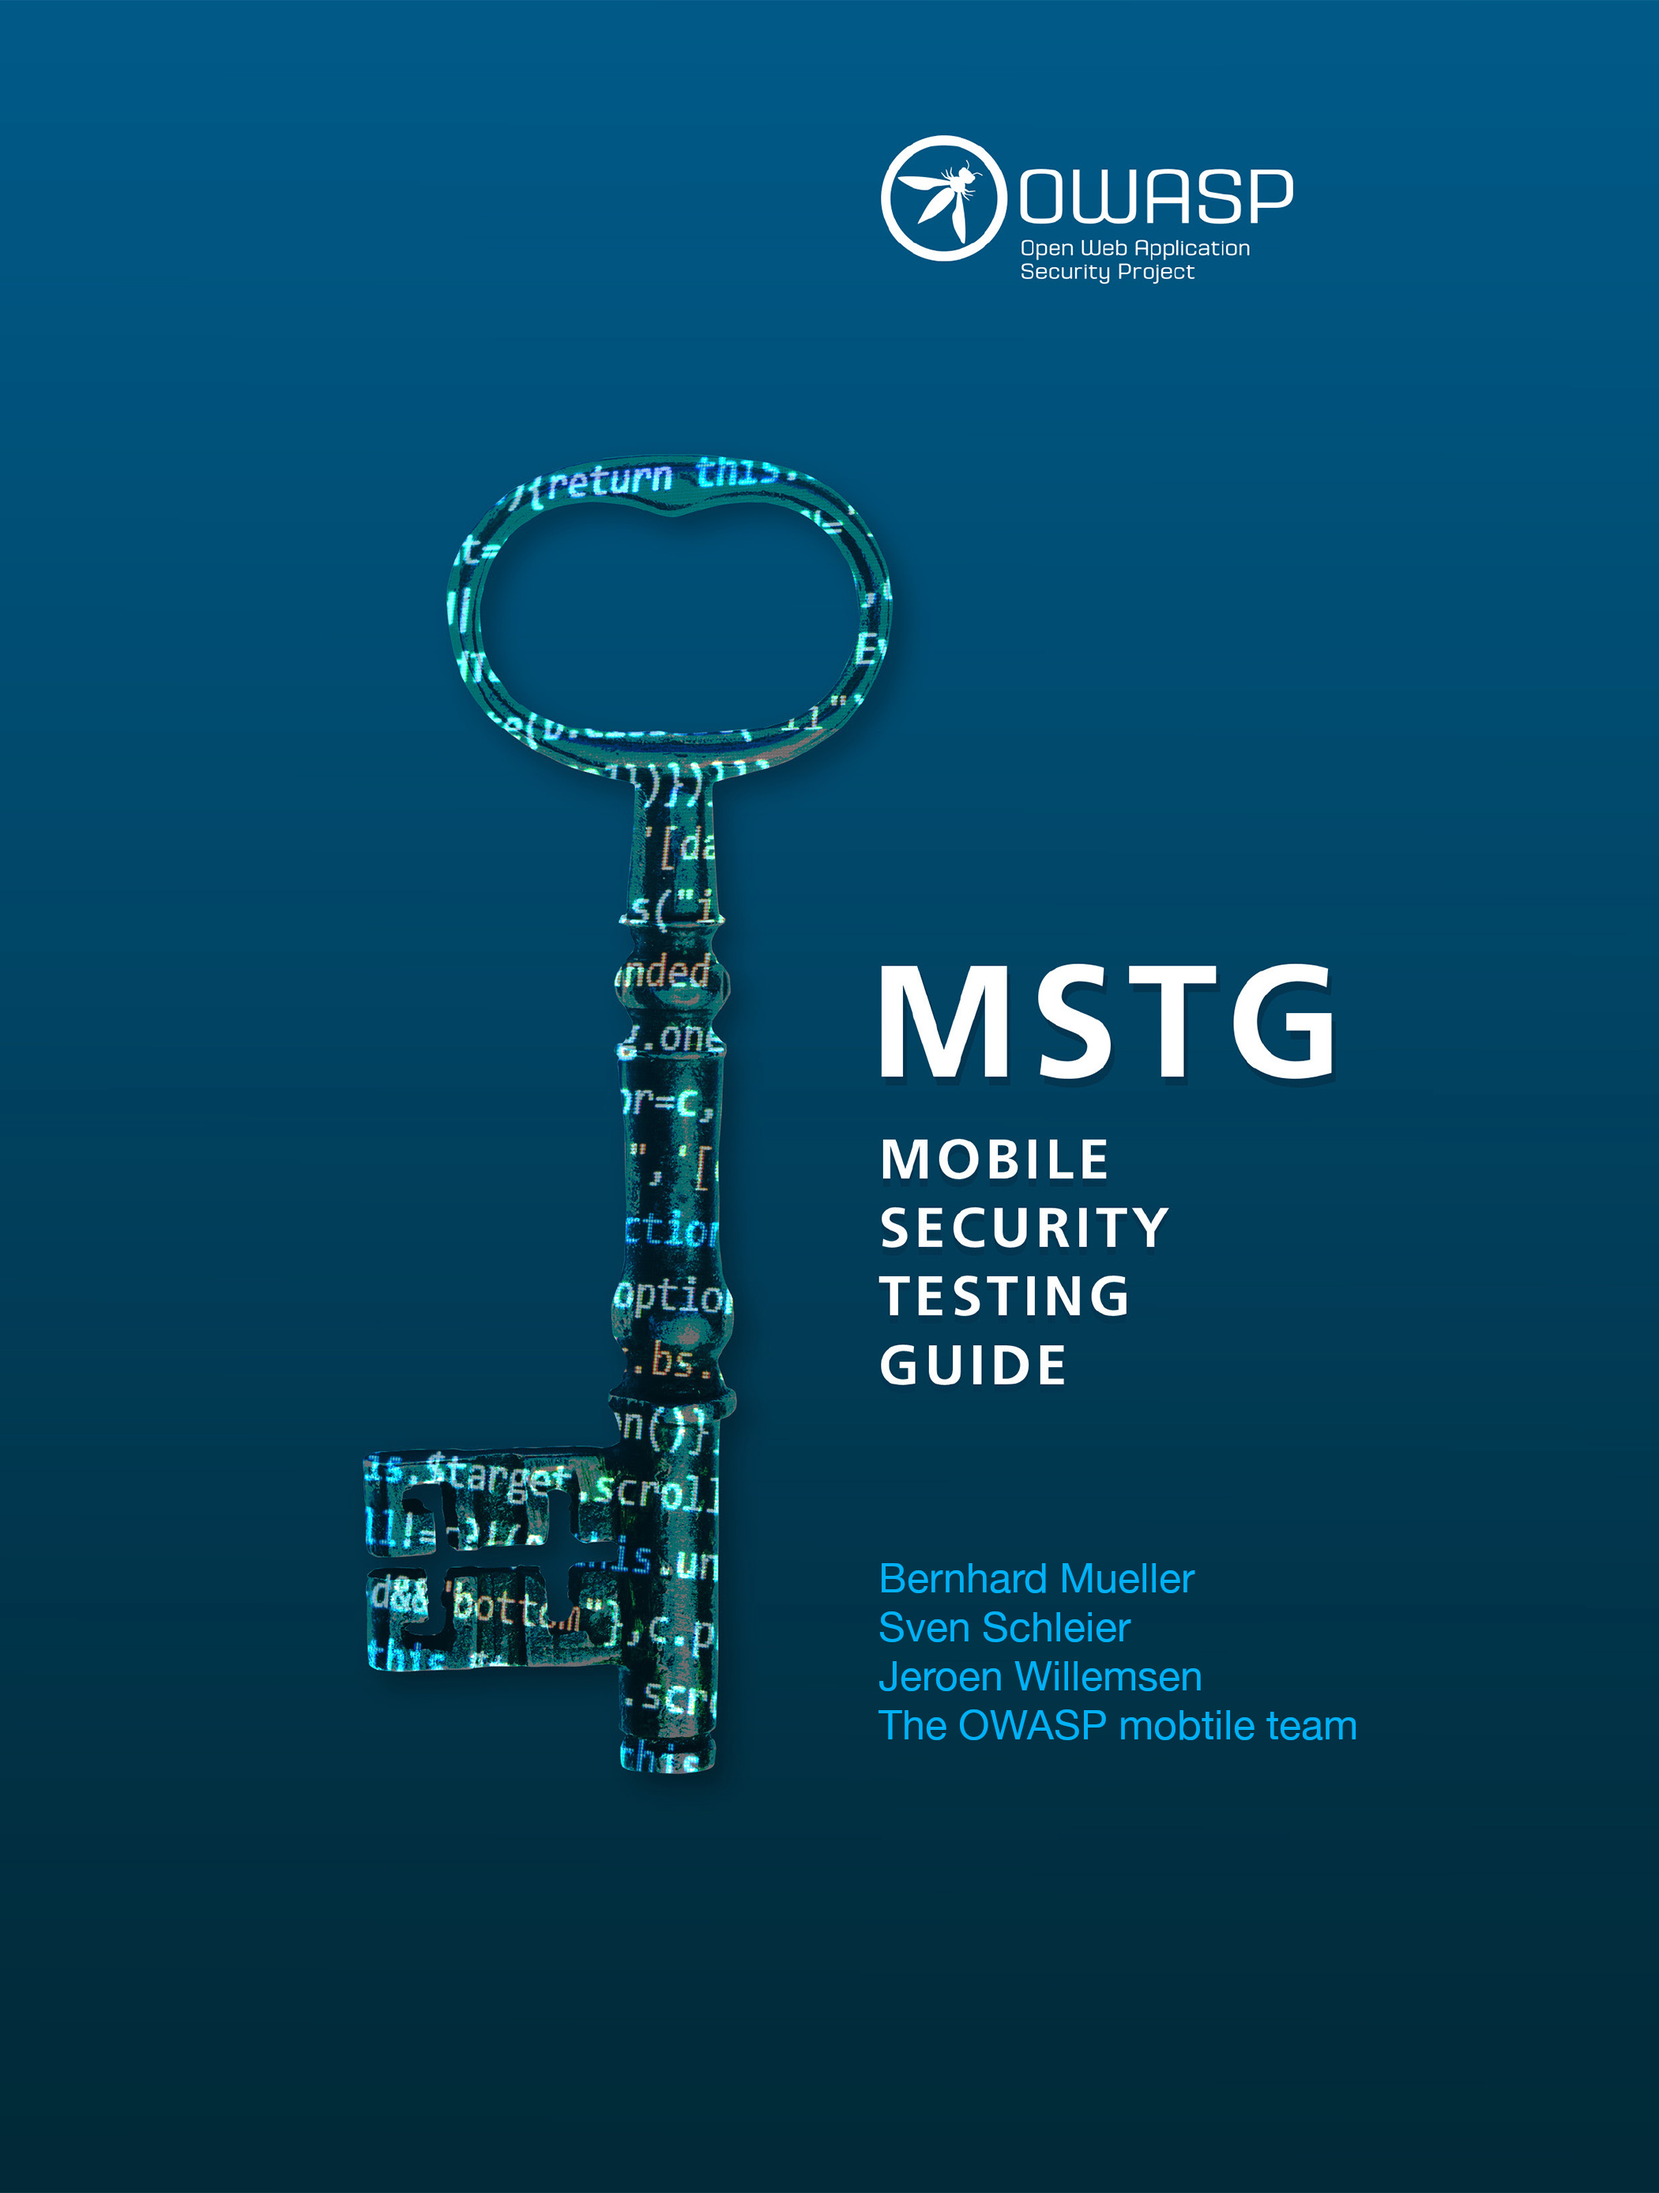
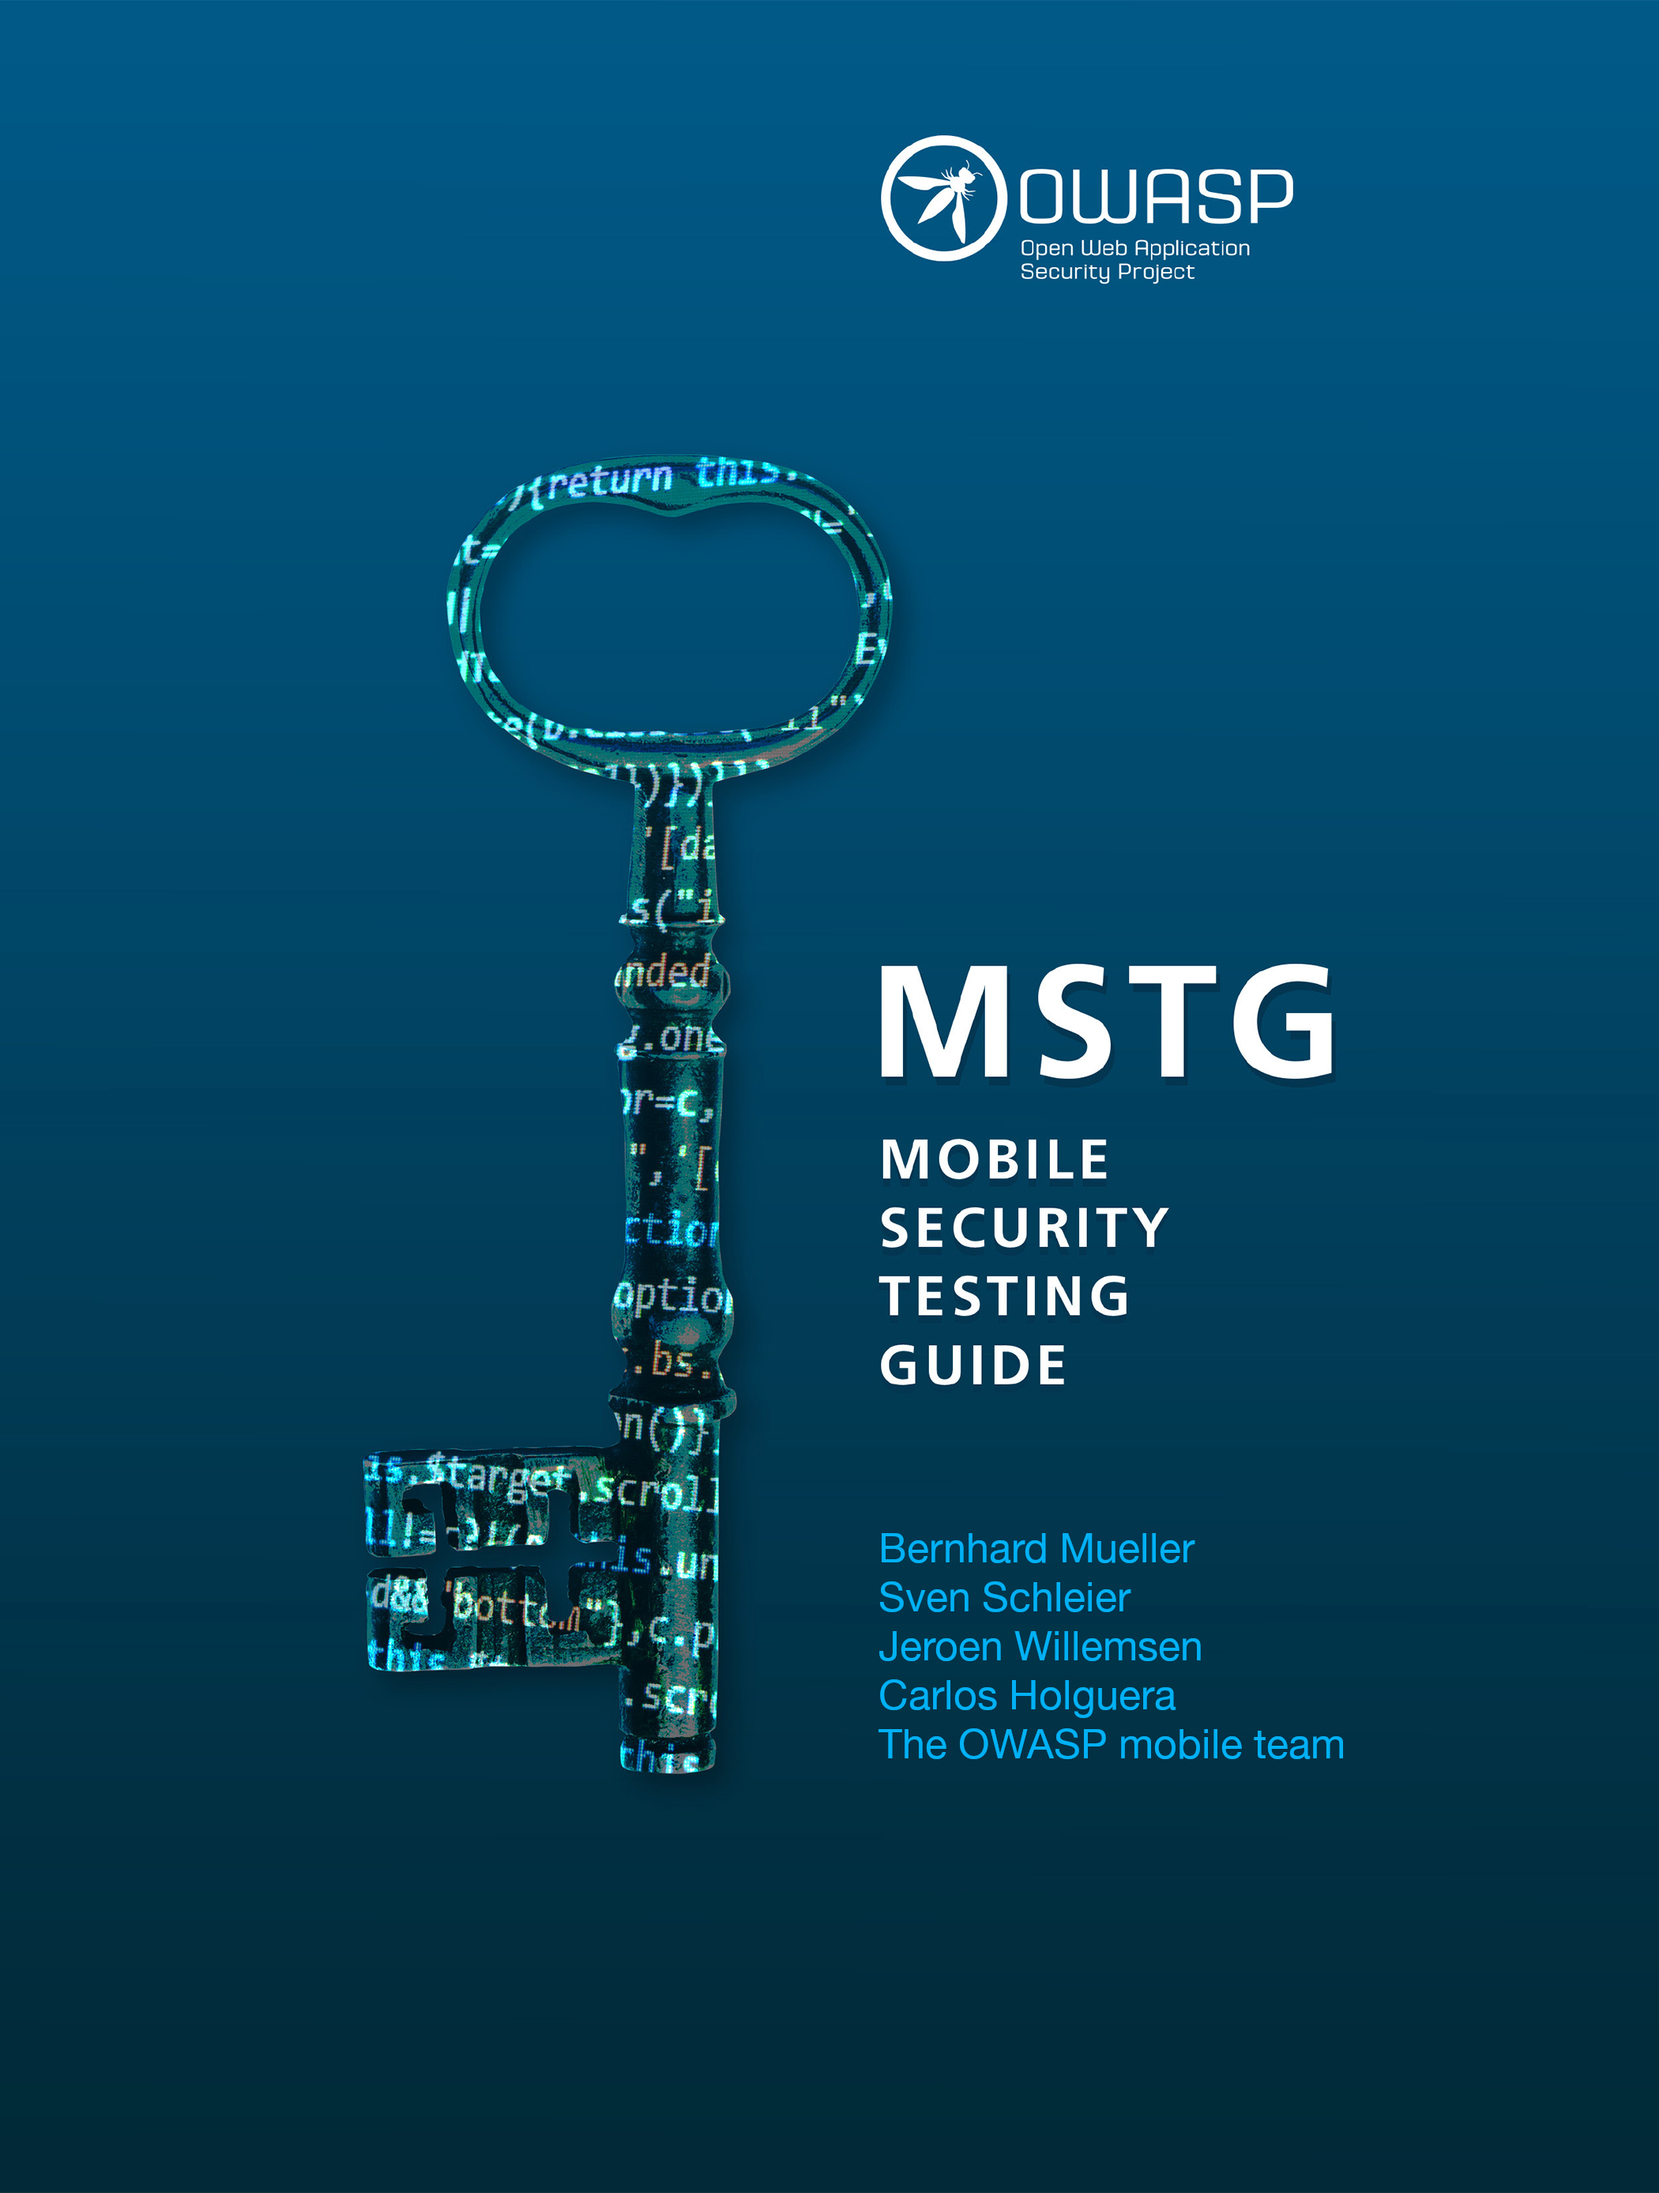
added Carlos

Changed region(s): [[0.5262, 0.6818, 0.8048, 0.8058]]

diff --git a/README.md b/README.md
@@ -71,7 +71,7 @@ The release 1.0 of the MSTG was published in June 2018. You can get intermediate
 
 2. Check the [releases](https://github.com/OWASP/owasp-mstg/releases "Our releases"). Here you can find a PDF, an archive containing the sources and a DocX document for any given tagged version. Please note that the documents are generated automatically per tag.
 
-3. Get the book as printed version. A hardcopy of the book can be ordered via [lulu.com](http://www.lulu.com/shop/sven-schleier-and-jeroen-willemsen-and-bernhard-m%C3%BCller/owasp-mobile-security-testing-guide/paperback/product-24091501.html "MSTG on Lulu.com"). This version of the book is not completely aligned with book printing standards, but we are improving each version. If you recognise any issues or mistakes, even small ones, please raise an [issue](https://github.com/OWASP/owasp-mstg/issues "our issues section") so we can fix it in the next version.
+3. Get the book as printed version. A hardcopy of the book can be ordered via [lulu.com](http://www.lulu.com/shop/sven-schleier-and-jeroen-willemsen-and-bernhard-m%C3%BCller/owasp-mobile-security-testing-guide/paperback/product-24091501.html "MSTG on Lulu.com"). This version of the book is not completely aligned with book printing standards, but we are improving each version. If you recognize any issues or mistakes, even small ones, please raise an [issue](https://github.com/OWASP/owasp-mstg/issues "our issues section") so we can fix it in the next version.
 
 4. Get the [e-book](https://leanpub.com/mobile-security-testing-guide-preview "MSTG as an e-book"). The book is available for free, but you can choose to purchase it at a price of your choosing if you wish to support our project. All funds raised through sales of the e-book go directly into the project budget and will be used to fund production of future releases.
 
@@ -121,7 +121,7 @@ Contributors are added to the acknowledgements table based on their contribution
 
 Please ping us or create a pull request if you are missing from the table or in the wrong column (note that we update the table frequently, but not in realtime).
 
-If you are willing to write a large portion of the guide and help consistently drive the project forward, you can join as an author. Be aware that you'll be expected to invest lots of time over several months. Contact Sven Schleier (Slack: *sushi2k*) or Jeroen Willemsen (Slack: *jeroenwillemsen*) for more information.
+If you are willing to write a large portion of the guide and help consistently drive the project forward, you can join as an author. Be aware that you'll be expected to invest lots of time over several months. Contact Sven Schleier (Slack: *Sven*), Jeroen Willemsen (Slack: *jeroenwillemsen*) or Carlos Holguera (Slack: *Carlos*) for more information.
 
 ## Crackmes
 

diff --git a/Document/0x02-Frontispiece.md b/Document/0x02-Frontispiece.md
@@ -34,13 +34,13 @@ Sven is an experienced web and mobile penetration tester and assessed everything
 
 Jeroen is a principal security architect at Xebia with a passion for mobile security and risk management. He has supported companies as a security coach, a security engineer and as a full-stack developer, which makes him a jack of all trades. He loves explaining technical subjects: from security issues to programming challenges.
 
-### Co-Authors
-
-Co-authors have consistently contributed quality content and have at least 2,000 additions logged in the GitHub repository.
-
 #### Carlos Holguera
 
 Carlos is a security engineer leading the mobile penetration testing team at ESCRYPT. He has gained many years of hands-on experience in the field of security testing for mobile apps and embedded systems such as automotive control units and IoT devices. He is passionate about reverse engineering and dynamic instrumentation of mobile apps and is continuously learning and sharing his knowledge.
+
+### Co-Authors
+
+Co-authors have consistently contributed quality content and have at least 2,000 additions logged in the GitHub repository.
 
 #### Romuald Szkudlarek
 

diff --git a/Users.md b/Users.md
@@ -44,4 +44,4 @@ Currently the MASVS and MSTG are used by at least the following companies:
 
 ## Call for Users
 
-Are you actively using the MASVS or MSTG and want to be listed here? File an [issue on github](https://github.com/OWASP/owasp-mstg/issues/new), contact Sven Schleier (Slack: *sushi2k*) or Jeroen Willemsen (Slack: *jeroenwillemsen*), or send an email to [Sven](mailto:sven.schleier@owasp.org) or [Jeroen](mailto:jeroen.willemsen@owasp.org).
+Are you actively using the MASVS or MSTG and want to be listed here? File an [issue on github](https://github.com/OWASP/owasp-mstg/issues/new "New Issue"), contact Sven Schleier (Slack: *Sven*), Jeroen Willemsen (Slack: *jeroenwillemsen*) or Carlos Holguera (Slack: *Carlos*), or send an email to [Sven](mailto:sven.schleier@owasp.org), [Jeroen](mailto:jeroen.willemsen@owasp.org) or [Carlos](mailto:carlos.holguera@owasp.org).

diff --git a/CODE_OF_CONDUCT.md b/CODE_OF_CONDUCT.md
@@ -35,7 +35,7 @@ This Code of Conduct applies both within project spaces and in public spaces whe
 
 ## Enforcement
 
-Instances of abusive, harassing, or otherwise unacceptable behavior may be reported by contacting the project team at jeroen.willemsen@owasp.org and sven.schleier@owasp.org.
+Instances of abusive, harassing, or otherwise unacceptable behavior may be reported by contacting the project team at jeroen.willemsen@owasp.org, sven.schleier@owasp.org and carlos.holguera@owasp.org.
 
 All complaints will be reviewed and investigated and will result in a response that is deemed necessary and appropriate to the circumstances. The project team is obligated to maintain confidentiality with regard to the reporter of an incident. Further details of specific enforcement policies may be posted separately.
 
